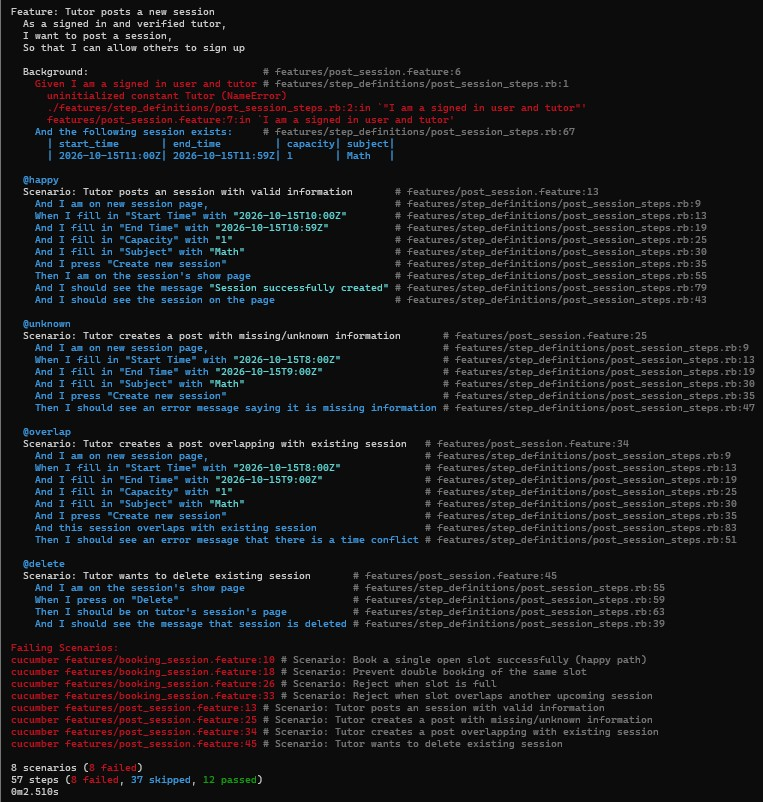
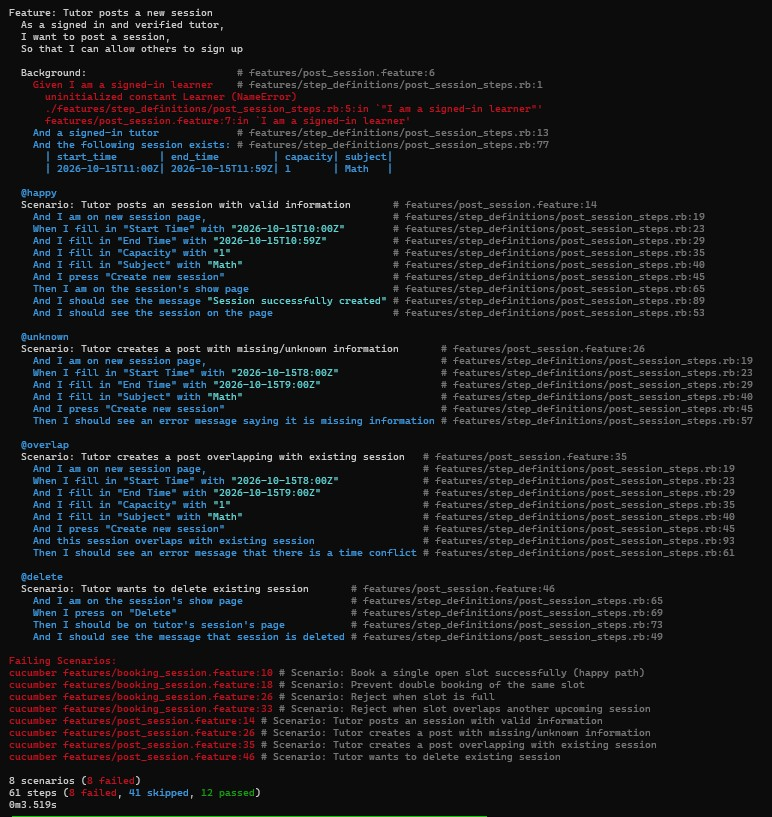
change to sign in similar to Eddie and Ivan's

Changed region(s): [[0.0, 0.0, 0.9948, 1.0]]

diff --git a/features/step_definitions/post_session_steps.rb b/features/step_definitions/post_session_steps.rb
@@ -1,8 +1,18 @@
-Given('I am a signed in user and tutor') do
-  @current_learner ||= Tutor.find_or_create_by!(email: "mia.patel@example.com") do |t|
-    t.password   = "password123"
-    t.first_name = "Mia"
-    t.last_name  = "Patel"
+Given('I am a signed-in learner') do
+  email    = "mia-patel@example.com"
+  password = "password123"
+
+  @current_learner ||= Learner.find_or_create_by!(email: email) do |l|
+    l.password   = password
+    l.first_name = "Mia"
+    l.last_name  = "Patel"
+  end
+
+end 
+
+Given ('a signed-in tutor') do
+  @current_tutor ||= Tutor.find_or_create_by!(email: @current_learner.email) do |t|
+    t.learner = learner
   end
 end
 

diff --git a/docs/session_slot.md b/docs/session_slot.md
@@ -15,6 +15,7 @@ I want to **post sessions**
 ## MVC Outline
 ### Models
 - A **Tutor model** with `learner:references' attribute.
+- A **Learner model** with 'email:string', 'password:string', 'first_name:string', and 'last_name:string' attributes.
 - A **Subject model** with `name:string` attribute.
 - A **Session model** with 'tutor:references', 'subject:references', 'start_at:datetime', 'end_at:datetime', 'capacity:integer', 'status:string', and 'meeting_link:text'
 
